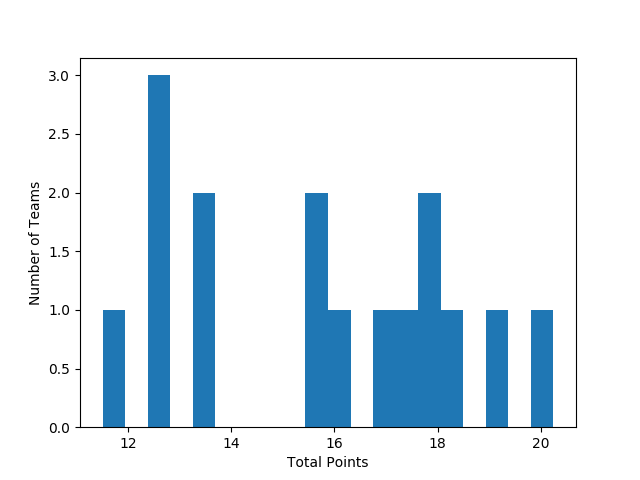
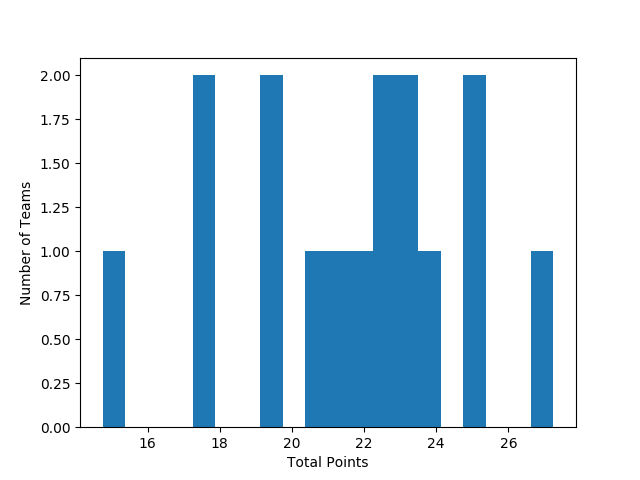
Semifinals update

diff --git a/bowl_pool/2022-2023/results.html b/bowl_pool/2022-2023/results.html
@@ -962,6 +962,138 @@ ul.auto-toc {
 <td>0.0</td>
 <td>0.0</td>
 </tr>
+<tr><td>26</td>
+<td>Sugar Bowl</td>
+<td>Alabama</td>
+<td>Kansas State</td>
+<td>6.5</td>
+<td>2.0</td>
+<td>2.0</td>
+<td>3.0<sup>*</sup></td>
+<td>0.0</td>
+<td>2.0</td>
+<td>2.0</td>
+<td>3.0<sup>*</sup></td>
+<td>2.0</td>
+<td>2.0</td>
+<td>2.0</td>
+<td>0.0</td>
+<td>3.0<sup>*</sup></td>
+<td>0.0</td>
+<td>2.0</td>
+<td>2.0</td>
+<td>2.0</td>
+</tr>
+<tr><td>27</td>
+<td>Music City Bowl</td>
+<td>Iowa</td>
+<td>Kentucky</td>
+<td>2.5</td>
+<td>0.0</td>
+<td>2.0<sup>*</sup></td>
+<td>1.0</td>
+<td>0.0</td>
+<td>0.0</td>
+<td>1.0</td>
+<td>0.0</td>
+<td>1.0</td>
+<td>1.0</td>
+<td>0.0</td>
+<td>0.0</td>
+<td>0.0</td>
+<td>0.0</td>
+<td>0.0</td>
+<td>1.0</td>
+<td>0.0</td>
+</tr>
+<tr><td>28</td>
+<td>Fiesta Bowl</td>
+<td>Michigan</td>
+<td>TCU</td>
+<td>7.5</td>
+<td>4.0</td>
+<td>0.0</td>
+<td>0.0</td>
+<td>4.0</td>
+<td>0.0</td>
+<td>4.0</td>
+<td>0.0</td>
+<td>0.0</td>
+<td>0.0</td>
+<td>0.0</td>
+<td>0.0</td>
+<td>0.0</td>
+<td>0.0</td>
+<td>0.0</td>
+<td>0.0</td>
+<td>0.0</td>
+</tr>
+<tr><td>29</td>
+<td>Peach Bowl</td>
+<td>Georgia</td>
+<td>Ohio State</td>
+<td>6.5</td>
+<td>2.0</td>
+<td>2.0</td>
+<td>2.0</td>
+<td>0.0</td>
+<td>3.0<sup>*</sup></td>
+<td>2.0</td>
+<td>2.0</td>
+<td>2.0</td>
+<td>2.0</td>
+<td>2.0</td>
+<td>2.0</td>
+<td>2.0</td>
+<td>2.0</td>
+<td>2.0</td>
+<td>2.0</td>
+<td>2.0</td>
+</tr>
+<tr><td>B3</td>
+<td>Will more than 62 total points be scored in the Peach Bowl?</td>
+<td>&nbsp;</td>
+<td>&nbsp;</td>
+<td>&nbsp;</td>
+<td>0.0</td>
+<td>1.0</td>
+<td>0.0</td>
+<td>0.0</td>
+<td>0.0</td>
+<td>0.0</td>
+<td>1.0</td>
+<td>1.0</td>
+<td>0.0</td>
+<td>0.0</td>
+<td>0.0</td>
+<td>1.0</td>
+<td>0.0</td>
+<td>0.0</td>
+<td>1.0</td>
+<td>1.0</td>
+</tr>
+<tr><td>B4</td>
+<td>Will more than 58.5 total points be scored in the Fiesta Bowl?</td>
+<td>&nbsp;</td>
+<td>&nbsp;</td>
+<td>&nbsp;</td>
+<td>0.0</td>
+<td>1.0</td>
+<td>1.0</td>
+<td>0.0</td>
+<td>0.0</td>
+<td>1.0</td>
+<td>1.0</td>
+<td>1.0</td>
+<td>0.0</td>
+<td>0.0</td>
+<td>0.0</td>
+<td>1.0</td>
+<td>1.0</td>
+<td>1.0</td>
+<td>1.0</td>
+<td>0.0</td>
+</tr>
 <tr><td>B6</td>
 <td>Will an orange-colored team win the Orange Bowl?</td>
 <td>&nbsp;</td>
@@ -989,22 +1121,22 @@ ul.auto-toc {
 <td>&nbsp;</td>
 <td>&nbsp;</td>
 <td>&nbsp;</td>
-<td><strong>11.5</strong></td>
-<td><strong>13.25</strong></td>
-<td><strong>20.25</strong></td>
-<td><strong>15.5</strong></td>
-<td><strong>19.0</strong></td>
-<td><strong>12.5</strong></td>
-<td><strong>16.0</strong></td>
-<td><strong>15.5</strong></td>
-<td><strong>18.25</strong></td>
-<td><strong>13.25</strong></td>
-<td><strong>12.75</strong></td>
-<td><strong>18.0</strong></td>
+<td><strong>19.5</strong></td>
+<td><strong>21.25</strong></td>
+<td><strong>27.25</strong></td>
+<td><strong>19.5</strong></td>
+<td><strong>24.0</strong></td>
+<td><strong>22.5</strong></td>
+<td><strong>23.0</strong></td>
+<td><strong>22.5</strong></td>
+<td><strong>23.25</strong></td>
+<td><strong>17.25</strong></td>
+<td><strong>14.75</strong></td>
+<td><strong>25.0</strong></td>
+<td><strong>20.5</strong></td>
+<td><strong>22.0</strong></td>
+<td><strong>25.0</strong></td>
 <td><strong>17.5</strong></td>
-<td><strong>17.0</strong></td>
-<td><strong>18.0</strong></td>
-<td><strong>12.5</strong></td>
 </tr>
 </tbody>
 </table>

diff --git a/bowl_pool/2022-2023/rankings.html b/bowl_pool/2022-2023/rankings.html
@@ -364,26 +364,26 @@ ul.auto-toc {
 
 
 <div class="line-block">
-<div class="line"><em>Last updated:  2022-12-31 11:36:46</em></div>
-<div class="line"><em>Last bowl scored:  Orange Bowl (Clemson vs. Tennessee)</em></div>
+<div class="line"><em>Last updated:  2022-12-31 23:47:13</em></div>
+<div class="line"><em>Last bowl scored:  Peach Bowl (Georgia vs. Ohio State)</em></div>
 </div>
 <div class="line-block">
-<div class="line">1. <strong>Amanda 20.25</strong></div>
-<div class="line">2. <strong>Badgers 19.0</strong></div>
-<div class="line">3. <strong>Bugaroo 18.25</strong></div>
-<div class="line">4. GlamKam 18.0</div>
-<div class="line">4. Sure Thing Shipley 18.0</div>
-<div class="line">6. MamaLonghorn 17.5</div>
-<div class="line">7. NIL 17.0</div>
-<div class="line">8. blue orred 16.0</div>
-<div class="line">9. Bad News Bibby 15.5</div>
-<div class="line">9. bopper 15.5</div>
-<div class="line">11. Aggie Austin 13.25</div>
-<div class="line">11. D-bo 13.25</div>
-<div class="line">13. Gigi 12.75</div>
-<div class="line">14. Bear-in-Law 12.5</div>
-<div class="line">14. W2D2 12.5</div>
-<div class="line">16. <strong>#mamabear 11.5</strong></div>
+<div class="line">1. <strong>Amanda 27.25</strong></div>
+<div class="line">2. GlamKam 25.0</div>
+<div class="line">2. <strong>Sure Thing Shipley 25.0</strong></div>
+<div class="line">4. Badgers 24.0</div>
+<div class="line">5. <strong>Bugaroo 23.25</strong></div>
+<div class="line">6. blue orred 23.0</div>
+<div class="line">7. Bear-in-Law 22.5</div>
+<div class="line">7. bopper 22.5</div>
+<div class="line">9. NIL 22.0</div>
+<div class="line">10. Aggie Austin 21.25</div>
+<div class="line">11. MamaLonghorn 20.5</div>
+<div class="line">12. #mamabear 19.5</div>
+<div class="line">12. Bad News Bibby 19.5</div>
+<div class="line">14. W2D2 17.5</div>
+<div class="line">15. D-bo 17.25</div>
+<div class="line">16. <strong>Gigi 14.75</strong></div>
 </div>
 </div>
 </body>

diff --git a/bowl_pool/2022-2023/index.html b/bowl_pool/2022-2023/index.html
@@ -365,8 +365,8 @@ ul.auto-toc {
 
 <p><strong>2022-2023 Bowl Pool</strong></p>
 <div class="line-block">
-<div class="line"><em>Last updated:  2022-12-31 11:36:46</em></div>
-<div class="line"><em>Last bowl scored:  Orange Bowl (Clemson vs. Tennessee)</em></div>
+<div class="line"><em>Last updated:  2022-12-31 23:47:14</em></div>
+<div class="line"><em>Last bowl scored:  Peach Bowl (Georgia vs. Ohio State)</em></div>
 </div>
 <ul class="simple">
 <li><a class="reference external" href="rankings.html">Rankings</a> (<a class="reference external" href="rankings.csv">csv</a>)</li>
